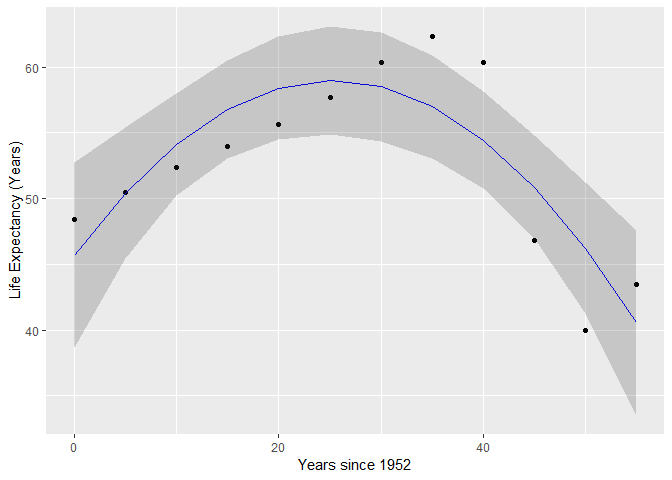
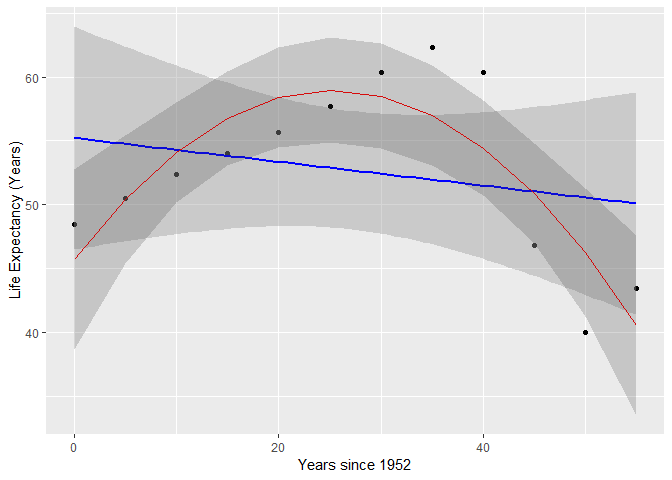
finished working with nested datasets

diff --git a/hw06-functions_and_nested_data.md b/hw06-functions_and_nested_data.md
@@ -6,8 +6,12 @@ November 7, 2018
 -   [Writing a function to work with the Gapminder dataset](#writing-a-function-to-work-with-the-gapminder-dataset)
     -   [Extension of the linear regression function from [this STAT545 page](http://stat545.com/block012_function-regress-lifeexp-on-year.html)](#extension-of-the-linear-regression-function-from-this-stat545-page)
         -   [Adding a quadratic term](#adding-a-quadratic-term)
-        -   [Output a scatter plot with a linear regression line](#output-a-scatter-plot-with-a-linear-regression-line)
+        -   [Output a scatter plot with regression lines](#output-a-scatter-plot-with-regression-lines)
 -   [Working with nested datasets](#working-with-nested-datasets)
+    -   [Nesting the Gapminder data frame](#nesting-the-gapminder-data-frame)
+    -   [Applying our functions to the nested dataset](#applying-our-functions-to-the-nested-dataset)
+    -   [Unnesting the regression results](#unnesting-the-regression-results)
+    -   [Comparing goodness of fit between linear and quadratic models](#comparing-goodness-of-fit-between-linear-and-quadratic-models)
 
 ``` r
 knitr::opts_chunk$set(echo = TRUE)
@@ -72,7 +76,7 @@ gapminder %>% filter(country == "Zimbabwe") %>% quad_reg()
     ##   intercept       slope     sq term 
     ## 45.69740659  1.04983946 -0.02077928
 
-### Output a scatter plot with a linear regression line
+### Output a scatter plot with regression lines
 
 A regression model with just the coefficients and the p-value tells us little about the fit of the model and the distribution of the data. A scatter plot with a linear regression line will give valuable quantitative data.
 
@@ -84,26 +88,206 @@ We can streamline this process by writing a function to do this. First let's edi
 quad_reg <- function(dat, offset = 1952){
   lm(lifeExp ~ I(year - offset) + I((year - offset)^2), dat) # subtract offset from year allows for better interpretation of the intercept
 }
+
+gapminder %>% filter(country == "Zimbabwe") %>% quad_reg(.)
 ```
 
+    ## 
+    ## Call:
+    ## lm(formula = lifeExp ~ I(year - offset) + I((year - offset)^2), 
+    ##     data = dat)
+    ## 
+    ## Coefficients:
+    ##          (Intercept)      I(year - offset)  I((year - offset)^2)  
+    ##             45.69741               1.04984              -0.02078
+
+Now let's create our function that will plot the scatter plot of the data as well as compare the regression lines from our linear regression and our quadratic regression:
+
 ``` r
-plot_reg <- function(dat, offset = 1952){
-  model <- quad_reg(dat) # model calculated by our quadratic regression function we wrote earlier
-  dat <- cbind(dat, predict(model, interval = "confidence")) #add predicted values as a new column to the given data frame
+plot_reg <- function(dat, quad_mod, offset = 1952){
+  dat <- cbind(dat, predict(quad_mod, interval = "confidence")) #add predicted values as a new column to the given data frame
   
   ggplot(dat, aes(I(year - offset), lifeExp)) +
     geom_point() +
-    geom_line(aes(I(year - offset), fit), colour = "Blue") + # plot regression line by linking together a scatter plot of the predicted values from predict()
-    geom_ribbon(aes(ymin = lwr, ymax = upr), alpha = 0.2) + # confidence interval
-    labs(x = "Years since 1952", y = "Life Expectancy (Years)")
+    geom_smooth(method="lm", colour = "Blue") + # linear regression line
+    geom_line(aes(I(year - offset), fit),  colour = "Red", size=0.5) + # plot regression line by linking together a scatter plot of the predicted values from predict()
+    geom_ribbon(aes(ymin = lwr, ymax = upr), alpha = 0.2) +# confidence interval
+    labs(x = "Years since 1952", y = "Life Expectancy (Years)") +
+    scale_colour_manual("",
+                        breaks = c("Linear Fit", "Quadratic Fit"),
+                        values = c("Blue", "Red"))
 }
 
-gapminder %>% filter(country == "Zimbabwe") %>% plot_reg()
+gapminder %>% filter(country == "Zimbabwe") %>% plot_reg(., quad_reg(.))
 ```
 
 ![](hw06-functions_and_nested_data_files/figure-markdown_github/unnamed-chunk-5-1.png)
 
-This regression clearly fits the data better than the linear model from before!
+The quadratic regression (red) clearly fits the data better than the linear model (blue) from before!
 
 Working with nested datasets
 ============================
+
+Nesting the Gapminder data frame
+--------------------------------
+
+*Creation of the nested data frame follows the lesson by Jenny Bryan found [here](http://stat545.com/block024_group-nest-split-map.html#split-apply-combine)*
+
+We will nest the gapminder dataframe by country and continent:
+
+``` r
+nested_ds <- gapminder %>%
+  group_by(continent, country) %>%
+  nest()
+
+head(nested_ds)
+```
+
+    ## # A tibble: 6 x 3
+    ##   continent country     data             
+    ##   <fct>     <fct>       <list>           
+    ## 1 Asia      Afghanistan <tibble [12 x 4]>
+    ## 2 Europe    Albania     <tibble [12 x 4]>
+    ## 3 Africa    Algeria     <tibble [12 x 4]>
+    ## 4 Africa    Angola      <tibble [12 x 4]>
+    ## 5 Americas  Argentina   <tibble [12 x 4]>
+    ## 6 Oceania   Australia   <tibble [12 x 4]>
+
+Using nest() after group\_by() collapses all the data pertaining to each distinct country in each continent into one row; i.e. all the data is now held in a list-column in column 3 for each country.
+
+We can view how the data stored in the list column by subsetting the first element:
+
+``` r
+nested_ds[[1, "data"]]
+```
+
+    ## # A tibble: 12 x 4
+    ##     year lifeExp      pop gdpPercap
+    ##    <int>   <dbl>    <int>     <dbl>
+    ##  1  1952    28.8  8425333      779.
+    ##  2  1957    30.3  9240934      821.
+    ##  3  1962    32.0 10267083      853.
+    ##  4  1967    34.0 11537966      836.
+    ##  5  1972    36.1 13079460      740.
+    ##  6  1977    38.4 14880372      786.
+    ##  7  1982    39.9 12881816      978.
+    ##  8  1987    40.8 13867957      852.
+    ##  9  1992    41.7 16317921      649.
+    ## 10  1997    41.8 22227415      635.
+    ## 11  2002    42.1 25268405      727.
+    ## 12  2007    43.8 31889923      975.
+
+In this list-column state, we can use map() from purrr inside mutate() in order to apply a function over each country, and store the results inside another list-column in column 4.
+
+Applying our functions to the nested dataset
+--------------------------------------------
+
+Let's apply the linear regression from [this STAT545 lesson](http://stat545.com/block012_function-regress-lifeexp-on-year.html) and the quadratic regression function we created above to every country in the gapminder dataset. We will modify the linear regression to match the quadratic regression function we created above to output the entire fitted model (and not just the intercept and slope):
+
+``` r
+lin_reg <- function(dat, offset = 1952) {
+  lm(lifeExp ~ I(year - offset), dat)
+}
+
+nested_ds <- nested_ds %>%
+  mutate(lin_fit = map(data, lin_reg)) %>%
+  mutate(quad_fit = map(data, quad_reg)) 
+
+nested_ds[[1, "lin_fit"]]
+```
+
+    ## 
+    ## Call:
+    ## lm(formula = lifeExp ~ I(year - offset), data = dat)
+    ## 
+    ## Coefficients:
+    ##      (Intercept)  I(year - offset)  
+    ##          29.9073            0.2753
+
+``` r
+nested_ds[[1, "quad_fit"]]
+```
+
+    ## 
+    ## Call:
+    ## lm(formula = lifeExp ~ I(year - offset) + I((year - offset)^2), 
+    ##     data = dat)
+    ## 
+    ## Coefficients:
+    ##          (Intercept)      I(year - offset)  I((year - offset)^2)  
+    ##            28.178687              0.482762             -0.003772
+
+Now that we have fitted models for every country stored in columns 3 and 4, we can use tidy() from the broom package (from STAT545 Lecture 14) to summarize each model with the estimate, standard error, t-statistic, and p-value for each term in the model:
+
+``` r
+nested_ds <- nested_ds %>%
+  mutate(tidy_lin = map(lin_fit, tidy)) %>%
+  mutate(tidy_quad = map(quad_fit, tidy))
+```
+
+Unnesting the regression results
+--------------------------------
+
+We can now create a data frame containing just the results of our regressions by using the select() and unnest() functions. After unnesting, we can pick out just the coefficient estimates for each term in the model by using the spread() function:
+
+``` r
+gap_lin_coefs <- nested_ds %>%
+  select(continent, country, tidy_lin) %>%
+  unnest(tidy_lin) %>%
+  select(continent, country, term, estimate) %>%
+  mutate(term = recode(term, `(Intercept)` = "intercept", `I(year - offset)` = "slope")) %>%
+  spread(key = term, value = estimate)
+
+gap_quad_coefs <- nested_ds %>%
+  select(continent, country, tidy_quad) %>%
+  unnest(tidy_quad) %>%
+  select(continent, country, term, estimate) %>%
+  mutate(term = recode(term, `(Intercept)` = "intercept",
+                       `I(year - offset)` = "slope",
+                       `I((year - offset)^2)` = "quadratic")) %>% # rename estimate columns
+  spread(key = term, value = estimate) %>%
+  select(continent, country, intercept, slope, quadratic) # reorder columns to make more sense (estimates are in order of degree)
+
+head(gap_lin_coefs)
+```
+
+    ## # A tibble: 6 x 4
+    ##   continent country      intercept  slope
+    ##   <fct>     <fct>            <dbl>  <dbl>
+    ## 1 Africa    Algeria           43.4 0.569 
+    ## 2 Africa    Angola            32.1 0.209 
+    ## 3 Africa    Benin             39.6 0.334 
+    ## 4 Africa    Botswana          52.9 0.0607
+    ## 5 Africa    Burkina Faso      34.7 0.364 
+    ## 6 Africa    Burundi           40.6 0.154
+
+``` r
+head(gap_quad_coefs)
+```
+
+    ## # A tibble: 6 x 5
+    ##   continent country      intercept slope quadratic
+    ##   <fct>     <fct>            <dbl> <dbl>     <dbl>
+    ## 1 Africa    Algeria           41.9 0.741  -0.00313
+    ## 2 Africa    Angola            30.1 0.450  -0.00438
+    ## 3 Africa    Benin             37.9 0.540  -0.00375
+    ## 4 Africa    Botswana          44.9 1.02   -0.0175 
+    ## 5 Africa    Burkina Faso      31.5 0.740  -0.00684
+    ## 6 Africa    Burundi           39.3 0.312  -0.00286
+
+Now we have two very organized tables presenting the results of linear and quadratic regressions for every country in the gapminder dataset!
+
+Comparing goodness of fit between linear and quadratic models
+-------------------------------------------------------------
+
+We can also compare the goodness of fit between the linear and quadratic regressions by applying glance() from the broom package to our previous nested dataset:
+
+``` r
+get_adj_rsq <- function(model){ # create a useful function to output only the adj rsq value from glance() to avoid cluttering data frame with unncessary variables
+  glance(model)$adj.r.squared
+}
+
+nested_rsq <- nested_ds %>%
+  mutate(adj_r2_lin = map(lin_fit, get_adj_rsq)) %>%
+  mutate(adj_r2_quad = map(quad_fit, get_adj_rsq))
+```
